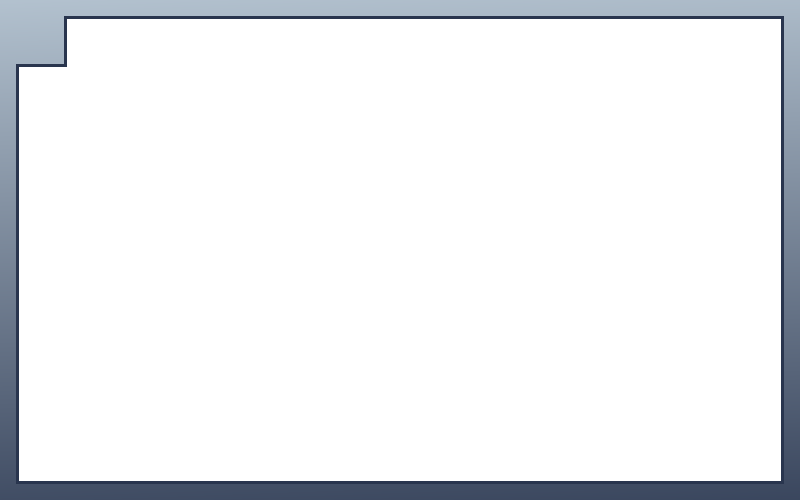
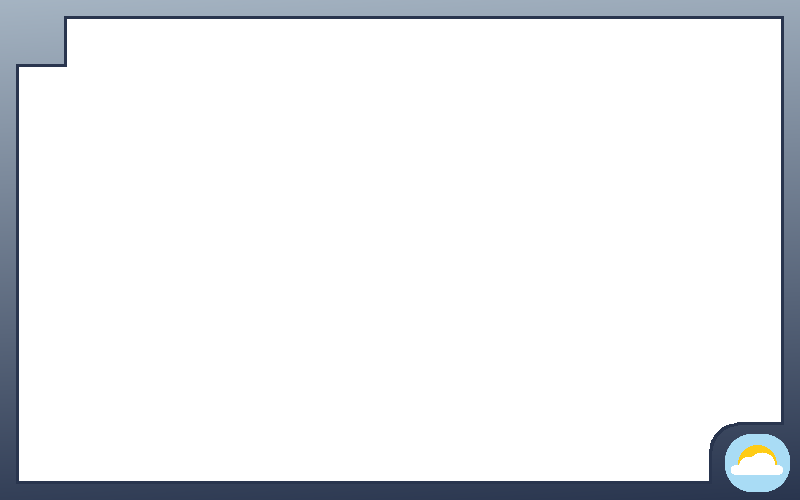
Derniere Update
- Suppression des fichiers inutiles dans assets
- Ajout de l'image de fond de l'UI
- Modification des commentaires

Changed region(s): [[0.875, 0.84, 1.0, 0.99]]

diff --git a/index.html b/index.html
@@ -22,18 +22,17 @@
         // -----------------------------------------------------------------------------------------
         var config = {
             type: Phaser.AUTO,
-            // 800 , 500
             width: 800, height: 500,
             physics: {
                 default: 'arcade',
                 arcade: {
                     gravity: { y: 300 },
-                    debug: true
+                    debug: false
                 }
             },
             scene: {preload: preload, create: create, update: update},
 
-            // active la possibilité de jouer a la manette
+            // Active la possibilité de jouer a la manette
             input: {gamepad: true}
 
             
@@ -46,12 +45,17 @@
         // ---------------------------------- FONCTION PRELOAD -------------------------------------
         // -----------------------------------------------------------------------------------------
         function preload() {
+
+            // Plateformes et background du jeu
             this.load.image('backgroundImg', 'assets/background.png');
             this.load.image('tileset', 'assets/tileset.png');
             this.load.tilemapTiledJSON("map", "assets/map.json"); 
 
+            // Interface 
+            this.load.image('ui', 'assets/interface.png');
             this.load.spritesheet('coeurs', 'assets/sprite_coeurs.png', {frameWidth: 64, frameHeight: 64});
 
+            // Heros et ennemi
             this.load.spritesheet('perso', 'assets/sprite.png', {frameWidth: 32, frameHeight: 64});
             this.load.spritesheet('ennemi', 'assets/sprite_ennemi.png', {frameWidth: 32, frameHeight: 32});
         }
@@ -87,15 +91,15 @@
 
         // ----- FONCTION UTILISEE LORSQUE LE JOUEUR TOUCHE UN PIC -----
         function touchePic() {
-                console.log("pics touches => mort immediate");
-                this.collisionPics.active = false;
+            console.log("pics touches => mort immediate");
+            this.collisionPics.active = false;
 
-                setTimeout(() => {
-                    location.reload();
-                }, 450);
+            setTimeout(() => {
+                location.reload();
+            }, 450);
 
-                this.physics.pause();
-                this.player.setTint(0xff0000);
+            this.physics.pause();
+            this.player.setTint(0xff0000);
         }
 
 
@@ -103,7 +107,7 @@
         // #TODO : corriger bug (ennemi one shot le joueur + ne tue pas l'ennemi)
         function toucheEnnemi() {
                
-            // Si l'ennemi a un element au dessus de lui
+            // Si l'ennemi a un element au dessus de lui (ici le joueur), il meurt
             if (this.ennemi1.body.blocked.up) {
                 setTimeout(ennemi1.setTint(0xff0000), 200);
                 ennemi1.destroy();
@@ -138,8 +142,7 @@
         // ----- FONCTION RAJOUTANT UN COEUR AU JOUEUR -----
         function ajoutCoeur() {
             nombreCoeurs += 1;
-
-            setTimeout(updateCoeurs, 100);
+            updateCoeurs();
         }
 
 
@@ -164,17 +167,17 @@
         }
 
         function deplacementDouble() {
-            if (cursors.left.isDown) {
+            if (cursors.left.isDown || gamepadButton?.left) {
                 this.player.setVelocityX(-640);
 
-            } else if (cursors.right.isDown) {
+            } else if (cursors.right.isDown || gamepadButton?.right) {
                 this.player.setVelocityX(640);
 
             } else {
                 this.player.setVelocityX(0);
             }
 
-            if (cursors.up.isDown && this.player.body.blocked.down) {
+            if ((cursors.up.isDown || gamepadButton?.jump) && this.player.body.blocked.down) {
                 this.player.setVelocityY(-1080);
             }
         }
@@ -230,40 +233,6 @@
                 "eclairs",
                 gameTileset
             );
-                
-
-            // ----- AFFICHAGE DE L'INTERFACE UTILISATEUR -----
-            
-
-
-            // ----- AFFICHAGE DU NOMBRE DE COEURS DU JOUEUR -----
-            
-            coeurs = this.physics.add.sprite(32, 32, 'coeurs').setScrollFactor(0);
-            coeurs.body.setAllowGravity(false);
-
-            this.anims.create({
-                key: 'coeur1',
-                frames: [ { key: 'coeurs', frame: 0 } ],
-                frameRate: 20
-            });
-
-            this.anims.create({
-                key: 'coeur2',
-                frames: [ { key: 'coeurs', frame: 1 } ],
-                frameRate: 20
-            });
-
-            this.anims.create({
-                key: 'coeur3',
-                frames: [ { key: 'coeurs', frame: 2 } ],
-                frameRate: 20
-            });
-
-            this.anims.create({
-                key: 'coeur0',
-                frames: [ { key: 'coeurs', frame: 3 } ],
-                frameRate: 20
-            });
 
 
 
@@ -280,7 +249,7 @@
             // ----- AFFICHAGE ET PROPRIETES DU PERSONNAGE -----
 
             // Ajout du personnage dans le jeu
-            this.player = this.physics.add.sprite(1584, 1024, 'perso');
+            this.player = this.physics.add.sprite(1548, 1024, 'perso');
             this.player.setCollideWorldBounds(true);
             
 
@@ -288,6 +257,8 @@
             this.physics.add.collider(this.player, platformLayer); 
             this.collisionPics = this.physics.add.collider(this.player, spikesLayer, touchePic, null, this); 
 
+            // Ajout de collider entre le joueur et les objets recuperables
+            // Declenche les fonction d'activation des objets
             this.physics.add.collider(this.player, coeursLayer, ajoutCoeur, null, this);
             this.physics.add.collider(this.player, eclairLayer, toucheEclair, null, this);
             
@@ -301,7 +272,7 @@
             this.physics.add.collider(this.ennemi1, platformLayer);
 
             // Ajout du mouvement de l'ennemi grace a un Tween
-            tween_mouvement = this.tweens.add({
+            tweenMouvement = this.tweens.add({
                 targets: [this.ennemi1],
                 paused: false,
                 ease: "Linear",  
@@ -313,25 +284,59 @@
                 repeatDelay: 1000, 
                 repeat: -1 
             });
-
-            // Ajout des collisions entre le personnage et l'ennemi'
+            
+            // Ajout des collisions entre le personnage et l'ennemi
             this.collisionEnnemi = this.physics.add.collider(this.player, this.ennemi1, toucheEnnemi, null, this);
+            
+
+            
+            // ----- AFFICHAGE DE L'INTERFACE UTILISATEUR -----
+
+            // Affichage de l'image de fond de l'UI
+            this.add.image(400, 250, 'ui').setScrollFactor(0);
+            
+            // Affichage des coeurs et creation des differentes images a afficher selon les frames de sprite
+            coeurs = this.physics.add.sprite(32, 32, 'coeurs').setScrollFactor(0);
+            coeurs.body.setAllowGravity(false);
+            
+            this.anims.create({
+                key: 'coeur1',
+                frames: [ { key: 'coeurs', frame: 0 } ],
+                frameRate: 20
+            });
+            
+            this.anims.create({
+                key: 'coeur2',
+                frames: [ { key: 'coeurs', frame: 1 } ],
+                frameRate: 20
+            });
+            
+            this.anims.create({
+                key: 'coeur3',
+                frames: [ { key: 'coeurs', frame: 2 } ],
+                frameRate: 20
+            });
+            
+            this.anims.create({
+                key: 'coeur0',
+                frames: [ { key: 'coeurs', frame: 3 } ],
+                frameRate: 20
+            });
 
 
 
             // ----- SETTINGS DE LA CAMERA -----
-
+            
             // Redimensions du jeu selon le fichier Tiled
             this.physics.world.setBounds(0, 0, 1600, 1600);
             this.cameras.main.setBounds(0, 0, 1600, 1600);
-
+            
             // Tracking de la caméra sur le joueur
-            this.cameras.main.startFollow(this.player); 
-            //this.cameras.main.zoom = 1.5;
-
+            this.cameras.main.startFollow(this.player);
+            
         }
         
-
+        
 
         // -----------------------------------------------------------------------------------------
         // ----------------------------------- FONCTION UPDATE -------------------------------------
@@ -339,6 +344,7 @@
         function update() {
 
             // ----- INTEGRATION DU GAMEPAD -----
+
             this.input.gamepad.on('connected', () => {
                 gamepad = this.input.gamepad.pad1;
                 console.log("Controller connected!");
@@ -352,7 +358,13 @@
             });
 
 
+
+            // ----- UPDATE DU NOMBRE DE COEURS ACTUELS -----
+
             updateCoeurs();
+
+
+
             // ----- DEPLACEMENT ET SAUTS DU SPRITE -----
 
             // Deplacement de gauche a droite
@@ -373,7 +385,7 @@
             }
             
             // Saut mural de droite a gauche
-            // Fonctionne si le joueur est a colle a la gauche d'un mur
+            // Fonctionne si le joueur est colle a gauche d'un mur
             if ((cursors.up.isDown || gamepadButton?.jump) && this.player.body.blocked.right) {
                 if (sautMural == true) {
 
@@ -389,7 +401,7 @@
             }
 
             // Saut mural de gauche a droite
-            // Fonctionne si le joueur est a colle a la droite d'un mur
+            // Fonctionne si le joueur est colle a droite d'un mur
             if ((cursors.up.isDown || gamepadButton?.jump) && this.player.body.blocked.left ) {
                 if (sautMural == true) {
 
